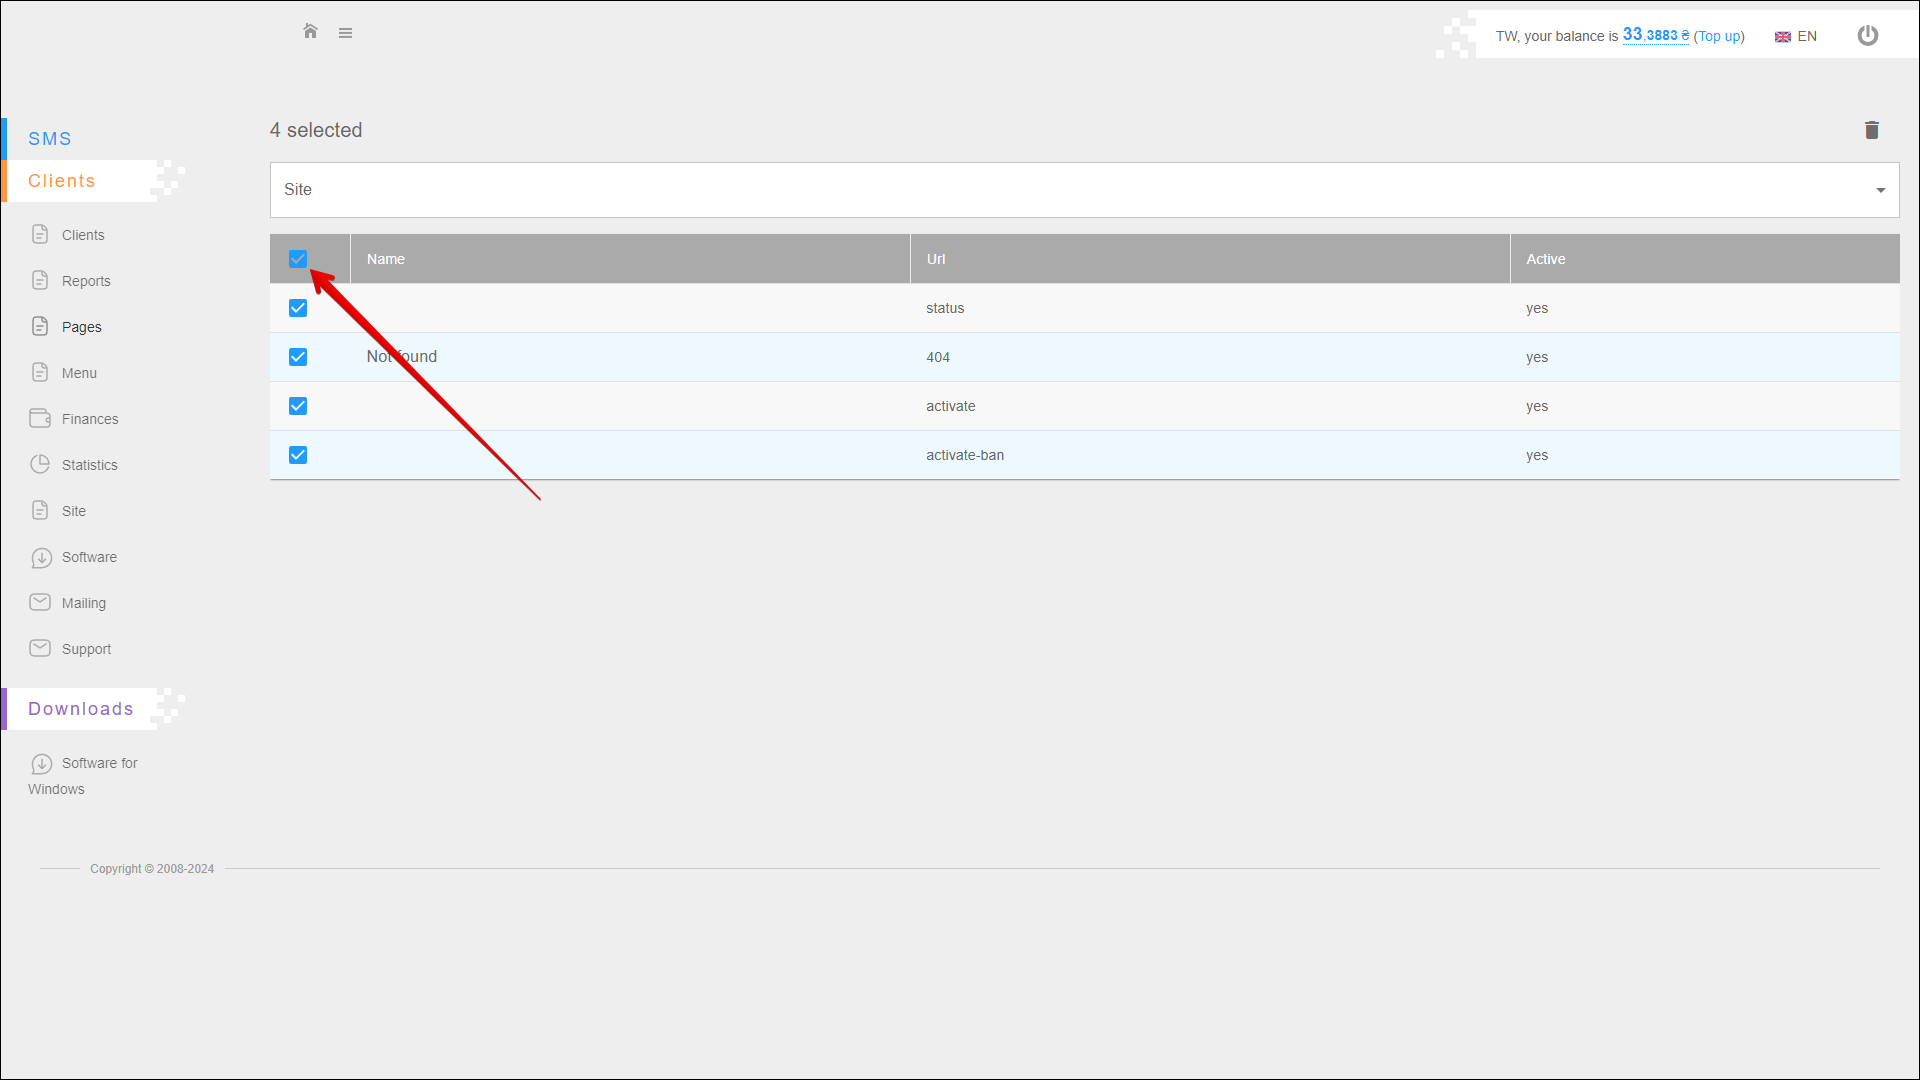
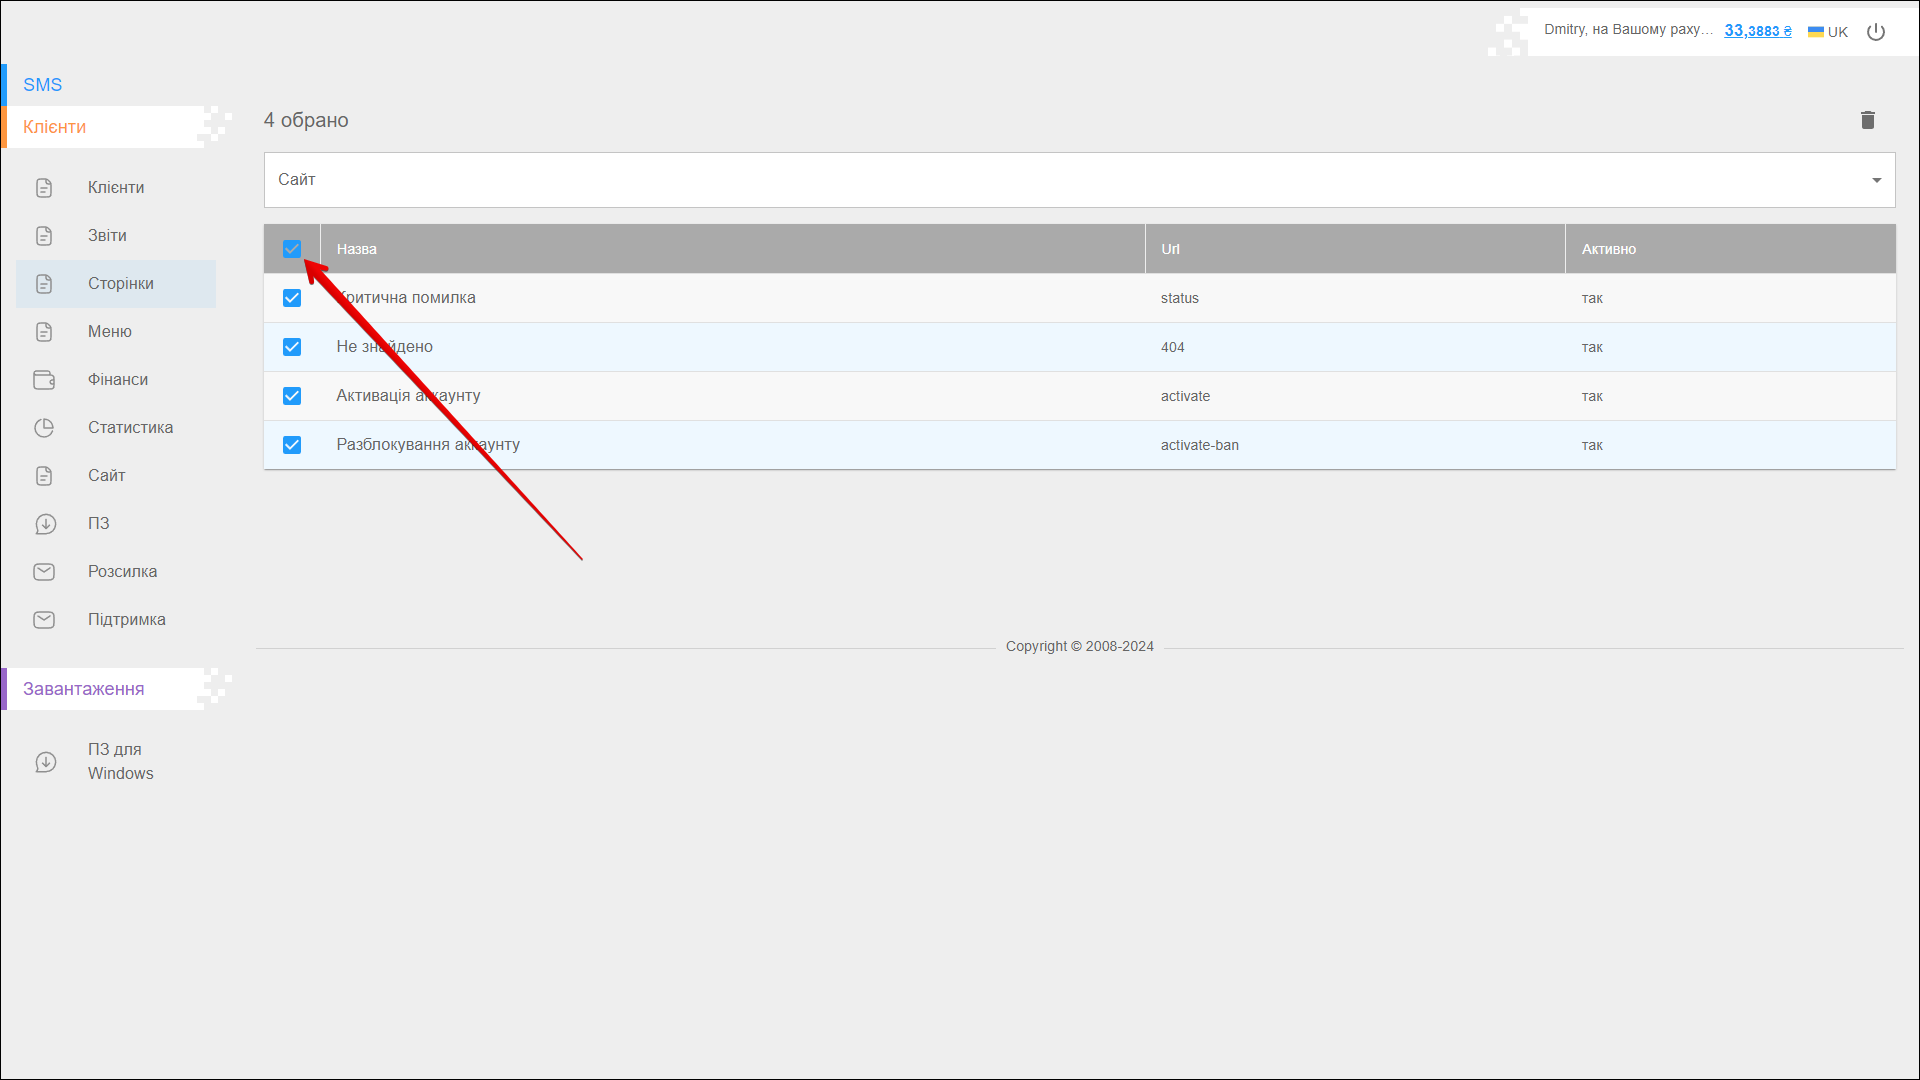
Клієнти-Сторінки

diff --git a/i18n/uk/docusaurus-plugin-content-docs/current/instruction/clients/pages/pages.md b/i18n/uk/docusaurus-plugin-content-docs/current/instruction/clients/pages/pages.md
@@ -3,3 +3,72 @@ id: pages
 title: Сторінки
 slug: /pages
 ---
+
+Даний розділ призначений для створення нових сторінок сайту, а також дозволяє редагувати і видаляти існуючі сторінки.
+
+Щоб відкрити даний розділ оберіть **Клієнти** → **Сторінки** в боковому меню.
+
+![image1](/img/uk/clients_pages/image1.png)
+
+## Додавання сторінки
+
+Щоб додати нову сторінку, натисніть кнопку **+ ДОДАТИ** у верхньому лівому кутку сторінки.
+
+![image2](/img/uk/clients_pages/image2.png)
+
+Далі виконайте наведені нижче дії:
+
+|  №  | Дія |
+| :-: | --- |
+| 1 | Виберіть зі списку **Сайт**, для якого ви хочете додати сторінку |
+| 2 | Виберіть **Батьківську** сторінку зі списку |
+| 3 | Вкажіть **Розташування** сторінки: <li>**Основне меню**</li><li>**Нижнє меню**</li><li>**Меню користувача**</li><li>**Меню зліва**</li> |
+| 4 | Вкажіть **URL** нової сторінки |
+| 5 | Виберіть **Тип** нової сторінки: <li>**Текстова сторінка**</li><li>**Головна сторінка**</li><li>**Ціни на SMS**</li><li>**Акаунт**</li><li>**Міжнародні SMS**</li><li>**Зворотній зв'язок**</li><li>**Лендінг**</li> |
+| 6 | Вкажіть адресу **Переадресації** |
+| 7 | Відмітьте чекбокс **Активно** для активації сторінки |
+| 8 | Відмітьте чекбокс **Nofollow** якщо необхідно для посилань активувати параметр `nofollow` |
+| 9 | Вкажіть **Пріоритет** сторінки |
+
+![image3](/img/uk/clients_pages/image3.png)
+
+|  №  | Дія |
+| :-: | --- |
+| 10 | Оберіть **Мову** сторінки: <li>**GEO** - Грузинська мова</li><li>**SLV** - Словенська мова</li><li>**SPA** - Іспанська мова</li><li>**IND** - Індонезійська мова</li><li>**POR** - Португальська мова</li><li>**RUS** - Російська мова</li><li>**UKR** - Українська мова</li><li>**ENG** - Англійська мова</li> <br/> Ви можете встановити такі параметри для декількох мов |
+| 11 | Вкажіть **Назву** сторінки |
+| 12 | Вкажіть **Заголовок сторінки** |
+| 13 | За допомогою редактора введіть **Текст**, який буде відображатися на сторінці |
+| 14 | Вкажіть **Ключові слова** через кому |
+| 15 | Додайте **Опис** сторінки |
+
+Натисніть **ВИКОНАТИ**, щоб зберегти сторінку.
+
+![image4](/img/uk/clients_pages/image4.png)
+
+## Таблиця зі сторінками
+
+Таблиця містить перелік сторінок з детальною інформацією про них. Дані розташовані в окремих колонках:
+
+![image5](/img/uk/clients_pages/image5.png)
+
+|  №  | Колонка | Опис |
+| :-: | ------- | ---- |
+| 1 | **Назва** | Назва сторінки |
+| 2 | **URL** | URL сторінки |
+| 3 | **Активно** | Чи активна сторінка |
+
+## Редагування сторінки
+
+Щоб відредагувати сторінку, натисніть на неї в таблиці зі сторінками. Відкриється сторінка **редагування сторінки**, дії аналогічні при [додаванні сторінки](#додавання-сторінки).
+
+![image6](/img/uk/clients_pages/image6.png)
+
+## Видалення сторінки
+
+Щоб видалити одну або кілька сторінок, відмітьте **Чекбокс** навпроти потрібних сторінок і натисніть іконку кнопки **Видалити** у верхньому правому куті сторінки.
+
+![image7](/img/uk/clients_pages/image7.png)
+
+Щоб вибрати всі сторінки, відмітьте чекбокс у заголовку таблиці.
+
+![image8](/img/uk/clients_pages/image8.png)

diff --git a/docs/instruction/clients/pages/pages.md b/docs/instruction/clients/pages/pages.md
@@ -6,7 +6,7 @@ slug: /pages
 
 This section is provided for creating new pages of the site, and also allows you to edit and delete existing pages.
 
-To open this tab, select **Clients** → **Pages** in the side menu.
+To open this section, select **Clients** → **Pages** in the side menu.
 
 ![image1](/img/en/clients_pages/image1.png)
 
